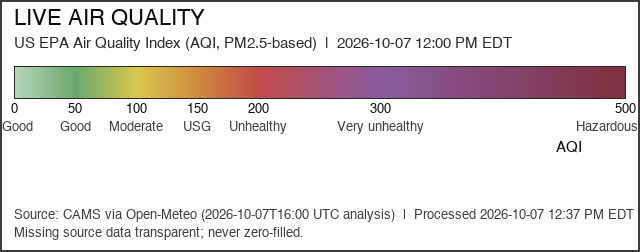
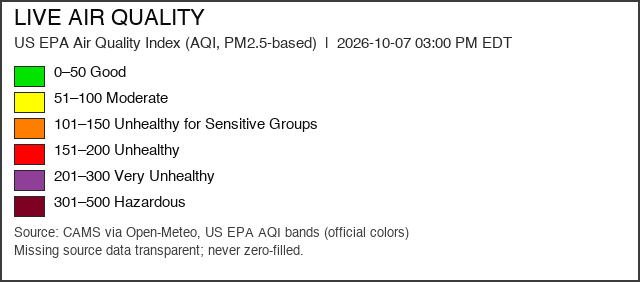
Air quality preset EPA bands (wind-style): quantized raster + band legend
- Six discrete official EPA colors with hard boundaries (no blending);
  true AQI min/max kept in stats; render tag g5; raster + legend + KMLs
  rebuilt (basin currently all-Good green, verified exact #00E400)
- Selftest: band-rep scale, quantize mapping, exact official colors
  (1095 pass); validator expects 25-400 band reps

diff --git a/scripts/build_air_quality.py b/scripts/build_air_quality.py
@@ -39,47 +39,64 @@ API = "https://air-quality-api.open-meteo.com/v1/air-quality"
 # professional standard for US public air-quality reporting. The source
 # variable stays CAMS PM2.5 (ug/m3); it is converted to AQI via the EPA
 # PM2.5 breakpoint table so the SAME index the public sees on AirNow is
-# what the gradient paints. Fixed linear 0-500 scale, stops at the true
-# category boundaries (evenly distributed in AQI value space).
-# Muted professional palette: same general hue per category as the EPA
-# wall (green/yellow/orange/red/purple/maroon) but desaturated — never
-# the neon pure-green/yellow/red of the raw-data era.
-AQI_GOOD_PALE = (184, 214, 187)  # cleanest: pale green (audit fix —
-                                # the old 0->50 flat-good segment rendered
-                                # every real basin reading one identical
-                                # green; the Good band is now a continuous
-                                # pale->green ramp so true variation shows)
-AQI_GOOD = (106, 168, 111)      # muted sage green (was neon green)
-AQI_MODERATE = (217, 200, 78)   # muted goldenrod (was neon yellow)
-AQI_USG = (208, 138, 62)        # muted orange
-AQI_UNHEALTHY = (193, 75, 72)   # muted brick red
-AQI_VERY = (138, 90, 160)       # muted purple
-AQI_HAZ = (126, 47, 60)         # muted maroon
-STOPS = [
-    (0.0, AQI_GOOD_PALE),
-    (50.0, AQI_GOOD),
-    (100.0, AQI_MODERATE),
-    (150.0, AQI_USG),
-    (200.0, AQI_UNHEALTHY),
-    (300.0, AQI_VERY),
-    (500.0, AQI_HAZ),
+# what the gradient paints. PRESET discrete bands (wind-style): each AQI
+# category is one flat official EPA color with hard boundaries — no
+# continuous slide for neighboring values to blur together.
+AQI_BANDS = [  # (lo, hi, rep, name, official EPA rgb)
+    (0.0, 50.0, 25.0, "Good", (0, 228, 0)),
+    (51.0, 100.0, 75.0, "Moderate", (255, 255, 0)),
+    (101.0, 150.0, 125.0, "Unhealthy for Sensitive Groups", (255, 126, 0)),
+    (151.0, 200.0, 175.0, "Unhealthy", (255, 0, 0)),
+    (201.0, 300.0, 250.0, "Very Unhealthy", (143, 63, 151)),
+    (301.0, 500.0, 400.0, "Hazardous", (126, 0, 35)),
 ]
-LABELS = [(0.0, "0 Good"), (50.0, "50 Good"), (100.0, "100 Moderate"),
-          (150.0, "150 USG"), (200.0, "200 Unhealthy"),
-          (300.0, "300 Very unhealthy"), (500.0, "500 Hazardous")]
+STOPS = [(rep, rgb) for _, _, rep, _, rgb in AQI_BANDS]
+
+
+def aqi_band_rep(aqi):
+    """Quantize an AQI value to its preset band representative value.
+
+    Every pixel renders its band's exact official color (the field only
+    ever holds the six rep values, so the LUT interpolator can never
+    blend bands). Above 500 clamps Hazardous; NaN stays missing."""
+    import math as _m
+    try:
+        v = float(aqi)
+    except (TypeError, ValueError):
+        return float("nan")
+    if not _m.isfinite(v) or v < 0:
+        return float("nan")
+    for lo, hi, rep, _, _ in AQI_BANDS:
+        if v <= hi:
+            return rep
+    return AQI_BANDS[-1][2]
+
+
+AQ_BAND_ROWS = [  # (color, legend row label) — wind-style category key
+    ((0, 228, 0), "0\u201350 Good"),
+    ((255, 255, 0), "51\u2013100 Moderate"),
+    ((255, 126, 0), "101\u2013150 Unhealthy for Sensitive Groups"),
+    ((255, 0, 0), "151\u2013200 Unhealthy"),
+    ((143, 63, 151), "201\u2013300 Very Unhealthy"),
+    ((126, 0, 35), "301\u2013500 Hazardous"),
+]
+LABELS = [(25.0, "25 Good"), (75.0, "75 Moderate"),
+          (125.0, "125 USG"), (175.0, "175 Unhealthy"),
+          (250.0, "250 Very unhealthy"), (400.0, "400 Hazardous")]
 KEY_TICKS = [(0.0, "0", "Good"), (50.0, "50", "Good"),
              (100.0, "100", "Moderate"), (150.0, "150", "USG"),
              (200.0, "200", "Unhealthy"), (300.0, "300", "Very unhealthy"),
              (500.0, "500", "Hazardous")]
-SCALE_HTML = ("US EPA Air Quality Index (AQI, PM2.5-based, fixed 0-500 "
-              "scale): <b>0-50</b> Good (pale green at 0 deepening to "
-              "green at 50) &rarr; <b>51-100</b> "
-              "Moderate (yellow) &rarr; <b>101-150</b> Unhealthy for "
-              "Sensitive Groups (orange) &rarr; <b>151-200</b> Unhealthy "
-              "(red) &rarr; <b>201-300</b> Very unhealthy (purple) &rarr; "
-              "<b>301-500</b> Hazardous (maroon). Same AQI always shows "
-              "the same color. CAMS PM2.5 model analysis converted via "
-              "EPA PM2.5 breakpoints — not station observations.")
+SCALE_HTML = ("US EPA Air Quality Index (AQI, PM2.5-based): six preset "
+              "official bands with hard boundaries — <b>0-50 Good</b> "
+              "green &rarr; <b>51-100 Moderate</b> yellow &rarr; "
+              "<b>101-150 Unhealthy for Sensitive Groups</b> orange "
+              "&rarr; <b>151-200 Unhealthy</b> red &rarr; <b>201-300 Very "
+              "Unhealthy</b> purple &rarr; <b>301-500 Hazardous</b> "
+              "maroon. Every pixel shows its band's exact color; no "
+              "blending between bands. CAMS PM2.5 model analysis "
+              "converted via EPA PM2.5 breakpoints — not station "
+              "observations.")
 # EPA PM2.5 (ug/m3, 24-hr) -> AQI breakpoints: (c_lo, c_hi, aqi_lo, aqi_hi)
 PM25_AQI_BP = [
     (0.0, 12.0, 0, 50),
@@ -227,8 +244,17 @@ def _build(source_id):
         data_time_utc = f"{hour} UTC"
     subtitle = (f"US EPA Air Quality Index (AQI, PM2.5-based)  |  {data_time_utc}")
     aqi_field = np.vectorize(pm25_to_aqi, otypes=[float])(field)
+    band_field = np.vectorize(aqi_band_rep, otypes=[float])(aqi_field)
+
+    def _aq_legend(legend_path):
+        from geospatial_utils import draw_category_legend
+        return draw_category_legend(
+            legend_path, CONFIG["title"], subtitle, AQ_BAND_ROWS,
+            "Source: CAMS via Open-Meteo, US EPA AQI bands (official colors)",
+            note="Missing source data transparent; never zero-filled.")
+
     return finish(
-        PRODUCT, CONFIG, KML_FILE, OVERLAY_NAME, aqi_field, STOPS, LABELS,
+        PRODUCT, CONFIG, KML_FILE, OVERLAY_NAME, band_field, STOPS, LABELS,
         "AQI", subtitle,
         f"Source: CAMS via Open-Meteo ({hour} UTC analysis)  |  "
         f"Processed {now_det_str()}", SCALE_HTML,
@@ -240,18 +266,21 @@ def _build(source_id):
          "Checked hourly; republishes only when CAMS publishes a newer "
          "valid hour."],
         {"model_cycle": f"CAMS {hour} UTC",
-         "stats": {"cams_hour": hour,
-                   "data_nature": "modeled analysis, not observed",
-                   "index": "US EPA AQI (PM2.5-based, 0-500)"}},
+          "stats": {"cams_hour": hour,
+                    "data_nature": "modeled analysis, not observed",
+                    "index": "US EPA AQI (PM2.5-based, 0-500)",
+                    "aqi_min": float(np.nanmin(aqi_field)),
+                    "aqi_max": float(np.nanmax(aqi_field))}},
         source_id, data_time_utc, "n/a (API)",
         "AQI index 0-500 (display; source ug/m3 PM2.5 as filed)",
         f"CAMS PM2.5 analysis sampled on a {GRID_NLON}x{GRID_NLAT} basin grid, "
         "bilinearly resampled to the common canvas, converted PM2.5->AQI",
         "only [0,500.4] ug/m3 admitted; AQI above 500 clamps into maroon; "
+        "pixels quantized to preset EPA bands (no inter-band blending); "
         "full basin rectangle, no shoreline cut; missing grid cells "
         "transparent; never zero-filled; modeled output, never labeled "
         "observed.",
-        key_ticks=KEY_TICKS)
+        custom_legend=_aq_legend)
 
 
 if __name__ == "__main__":

diff --git a/scripts/selftest.py b/scripts/selftest.py
@@ -704,9 +704,9 @@ def main():
     check("aqi-monotonic",
           all(b > a for a, b in zip(_aq_vs, _aq_vs[1:])))
     _aq_vals = [v for v, _ in _AQ_STOPS]
-    check("aqi-scale-0-500",
-          bool(_aq_vals[0] == 0.0 and _aq_vals[-1] == 500.0),
-          (_aq_vals[0], _aq_vals[-1]))
+    check("aqi-scale-band-reps",
+          bool(_aq_vals == [25.0, 75.0, 125.0, 175.0, 250.0, 400.0]),
+          _aq_vals)
     check("aqi-scale-ascending",
           all(b > a for a, b in zip(_aq_vals, _aq_vals[1:])))
     # every category boundary owns a distinct color (no flat band can
@@ -717,6 +717,24 @@ def main():
     check("aqi-bands-distinct", len(set(_aq_band)) == 7, len(set(_aq_band)))
     check("aqi-good-ramps",
           bool(_cf_aq(0.0, _AQ_STOPS) != _cf_aq(50.0, _AQ_STOPS)))
+    # preset bands: official EPA colors, hard reps, quantized field
+    from build_air_quality import aqi_band_rep as _aqrep
+    check("aqi-band-colors",
+          bool([c for _, c in _AQ_STOPS]
+                == [(0, 228, 0), (255, 255, 0), (255, 126, 0),
+                    (255, 0, 0), (143, 63, 151), (126, 0, 35)]))
+    for _v, _r in [(0.0, 25.0), (50.0, 25.0), (51.0, 75.0),
+                   (100.0, 75.0), (101.0, 125.0), (200.0, 175.0),
+                   (300.0, 250.0), (500.0, 400.0), (900.0, 400.0)]:
+        check(f"aqi-rep-{_v}", bool(float(_aqrep(_v)) == _r),
+              float(_aqrep(_v)))
+    check("aqi-rep-nan", bool(_np.isnan(_aqrep(float("nan")))))
+    check("aqi-rep-negative", bool(_np.isnan(_aqrep(-5.0))))
+    for _rep, _rgb in zip([25.0, 75.0, 125.0, 175.0, 250.0, 400.0],
+                          [(0, 228, 0), (255, 255, 0), (255, 126, 0),
+                           (255, 0, 0), (143, 63, 151), (126, 0, 35)]):
+        check(f"aqi-rep-exact-{_rep}",
+              bool(_cf_aq(_rep, _AQ_STOPS) == _rgb))
     _aq_words = " ".join(w for _, _, w in _AQ_TICKS)
     for _w in ("Good", "Moderate", "USG", "Unhealthy", "Very unhealthy",
                "Hazardous"):

diff --git a/scripts/validate_outputs.py b/scripts/validate_outputs.py
@@ -286,8 +286,8 @@ def main():
                 failures.append(f"{product}: humidity scale must be 0-100 %, got {lo}-{hi}")
             if product == "light_pollution" and (lo, hi) != (0.0, 100.0):
                 failures.append(f"{product}: light scale must be 0-100 index, got {lo}-{hi}")
-            if product == "air_quality" and (lo, hi) != (0.0, 500.0):
-                failures.append(f"{product}: AQI scale must be 0-500 AQI, got {lo}-{hi}")
+            if product == "air_quality" and (lo, hi) != (25.0, 400.0):
+                failures.append(f"{product}: AQI preset band reps must be 25-400, got {lo}-{hi}")
             if product == "air_quality":
                 # audit: deployed readings must be finite, in-scale, and
                 # render as more than one color when they vary (a flat

diff --git a/scripts/live_field.py b/scripts/live_field.py
@@ -41,7 +41,7 @@ RENDER_TAGS = {
     "visibility": "g8",
     "humidity": "g2",
     "light_pollution": "g4",
-    "air_quality": "g4",
+    "air_quality": "g5",
     "condensation": "g4",
     "fog": "g5",
     "dew_point": "g2",
